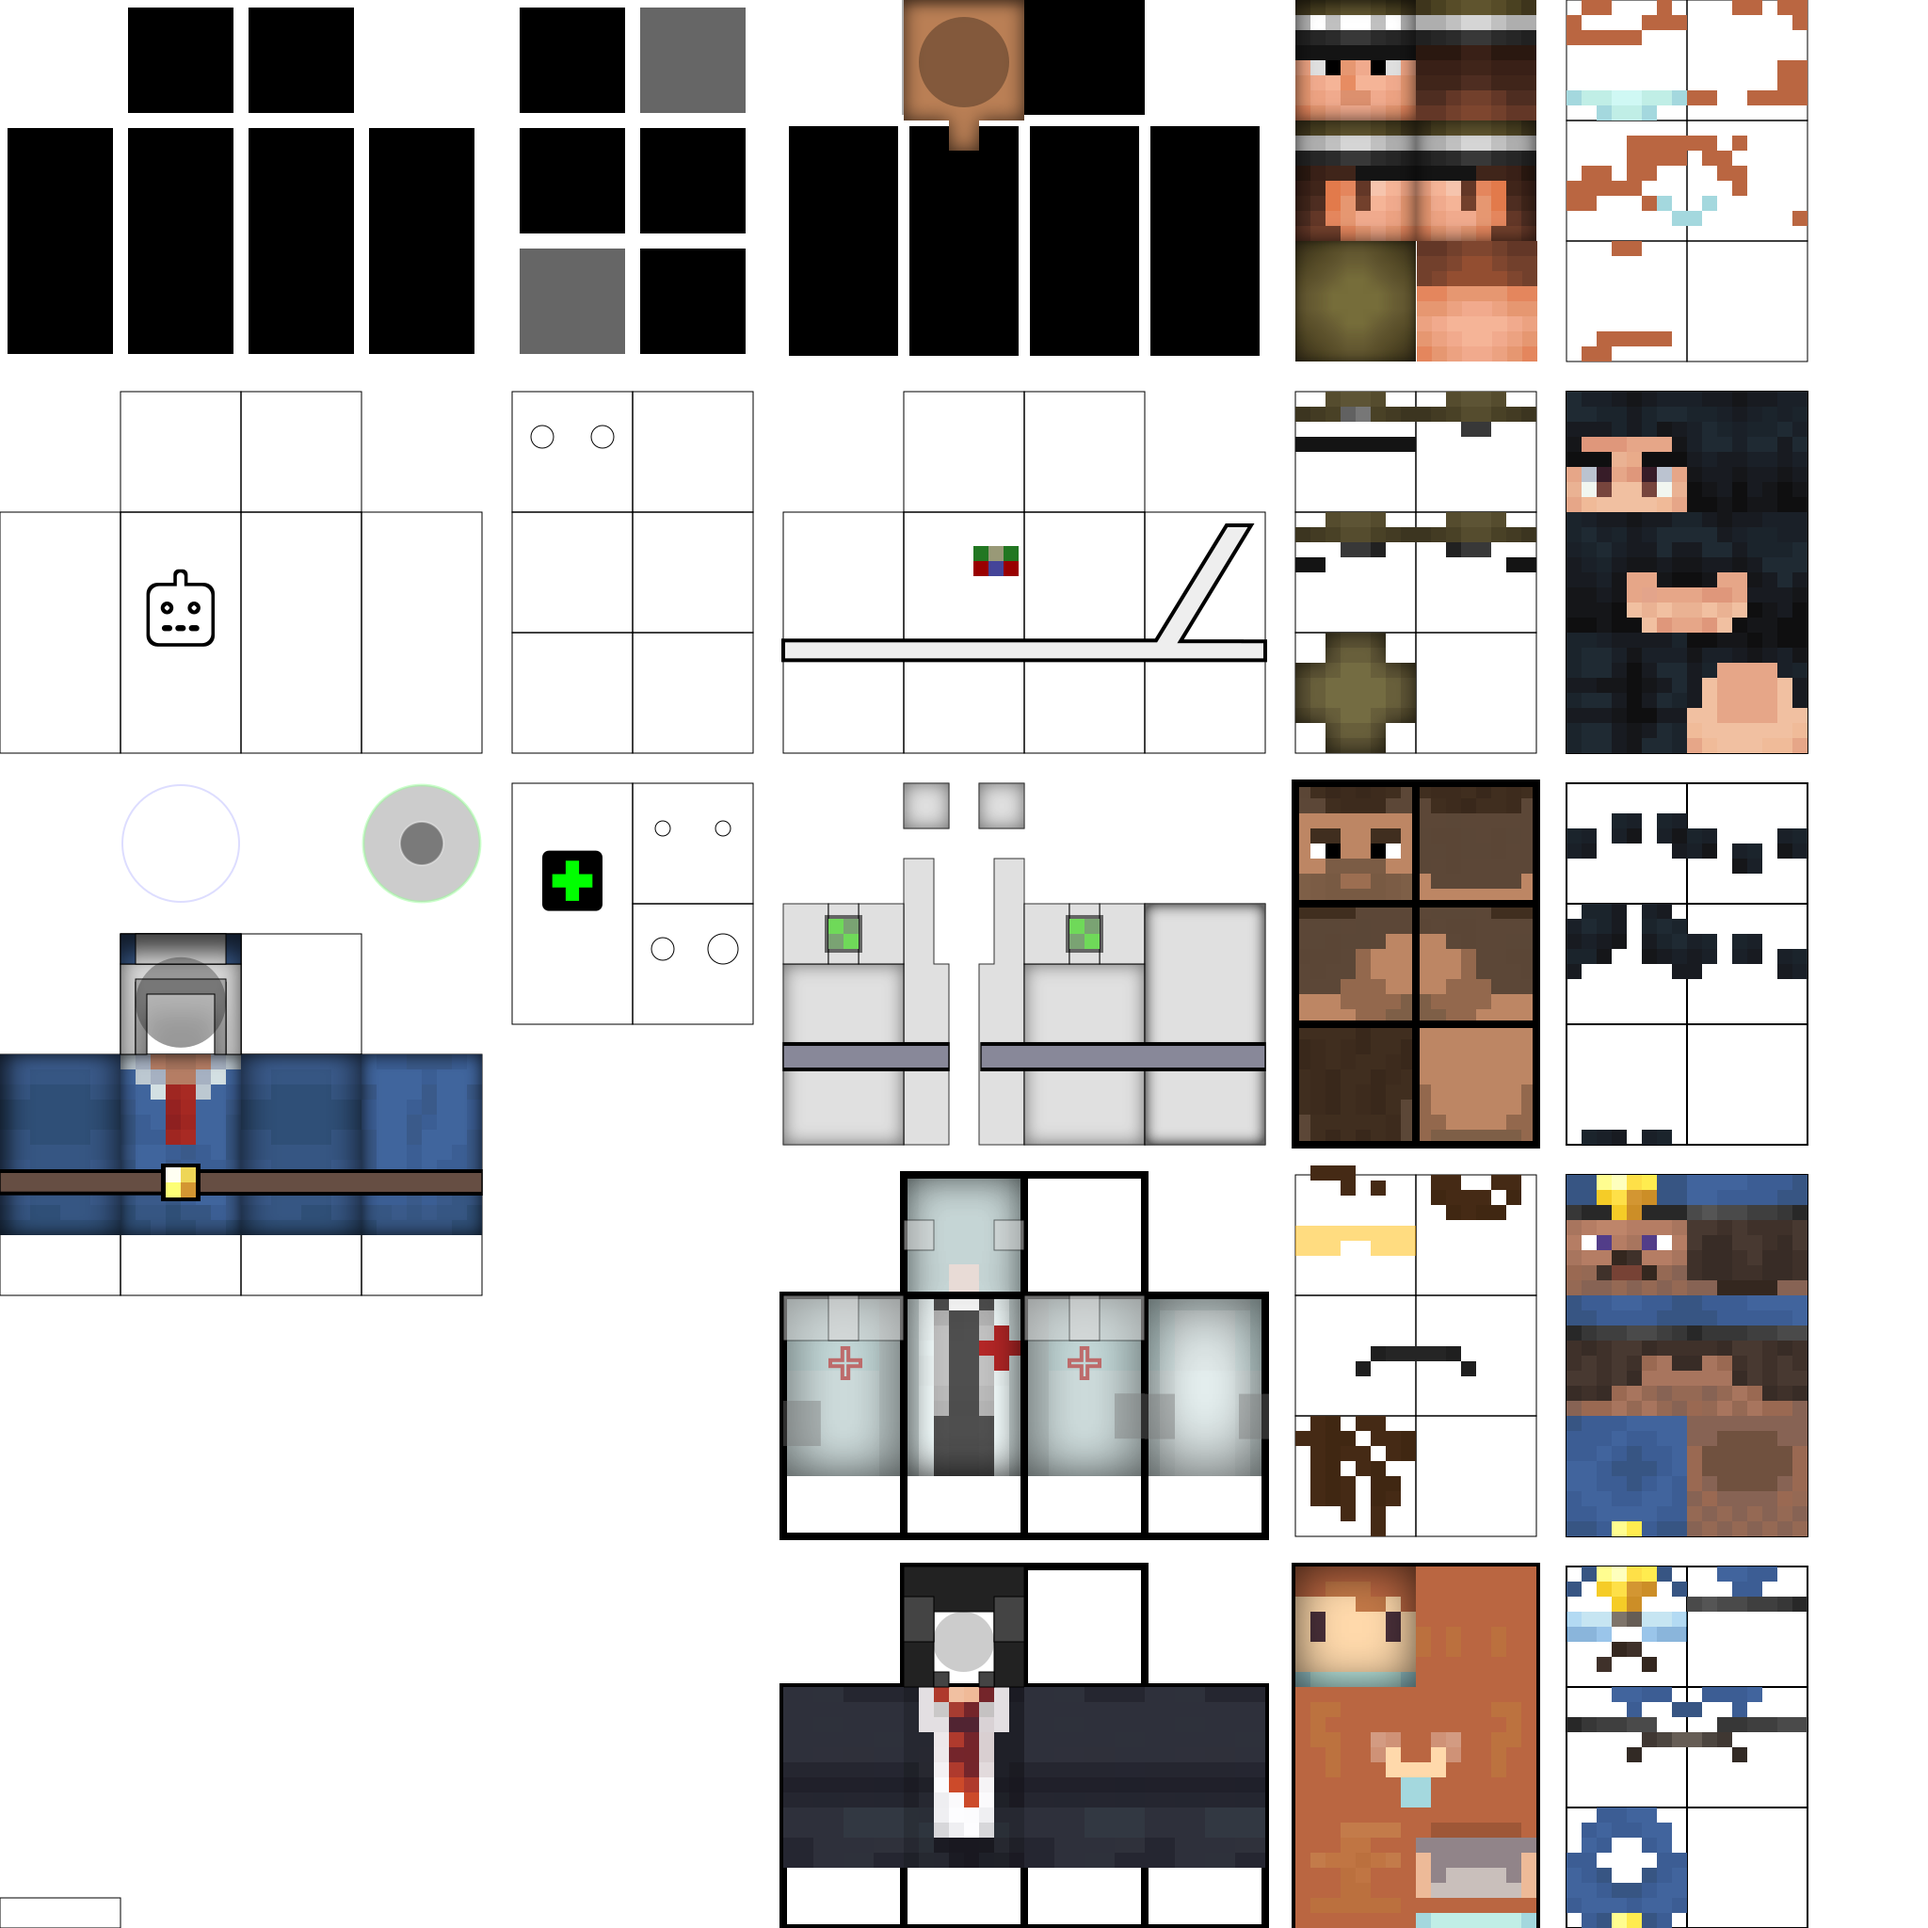
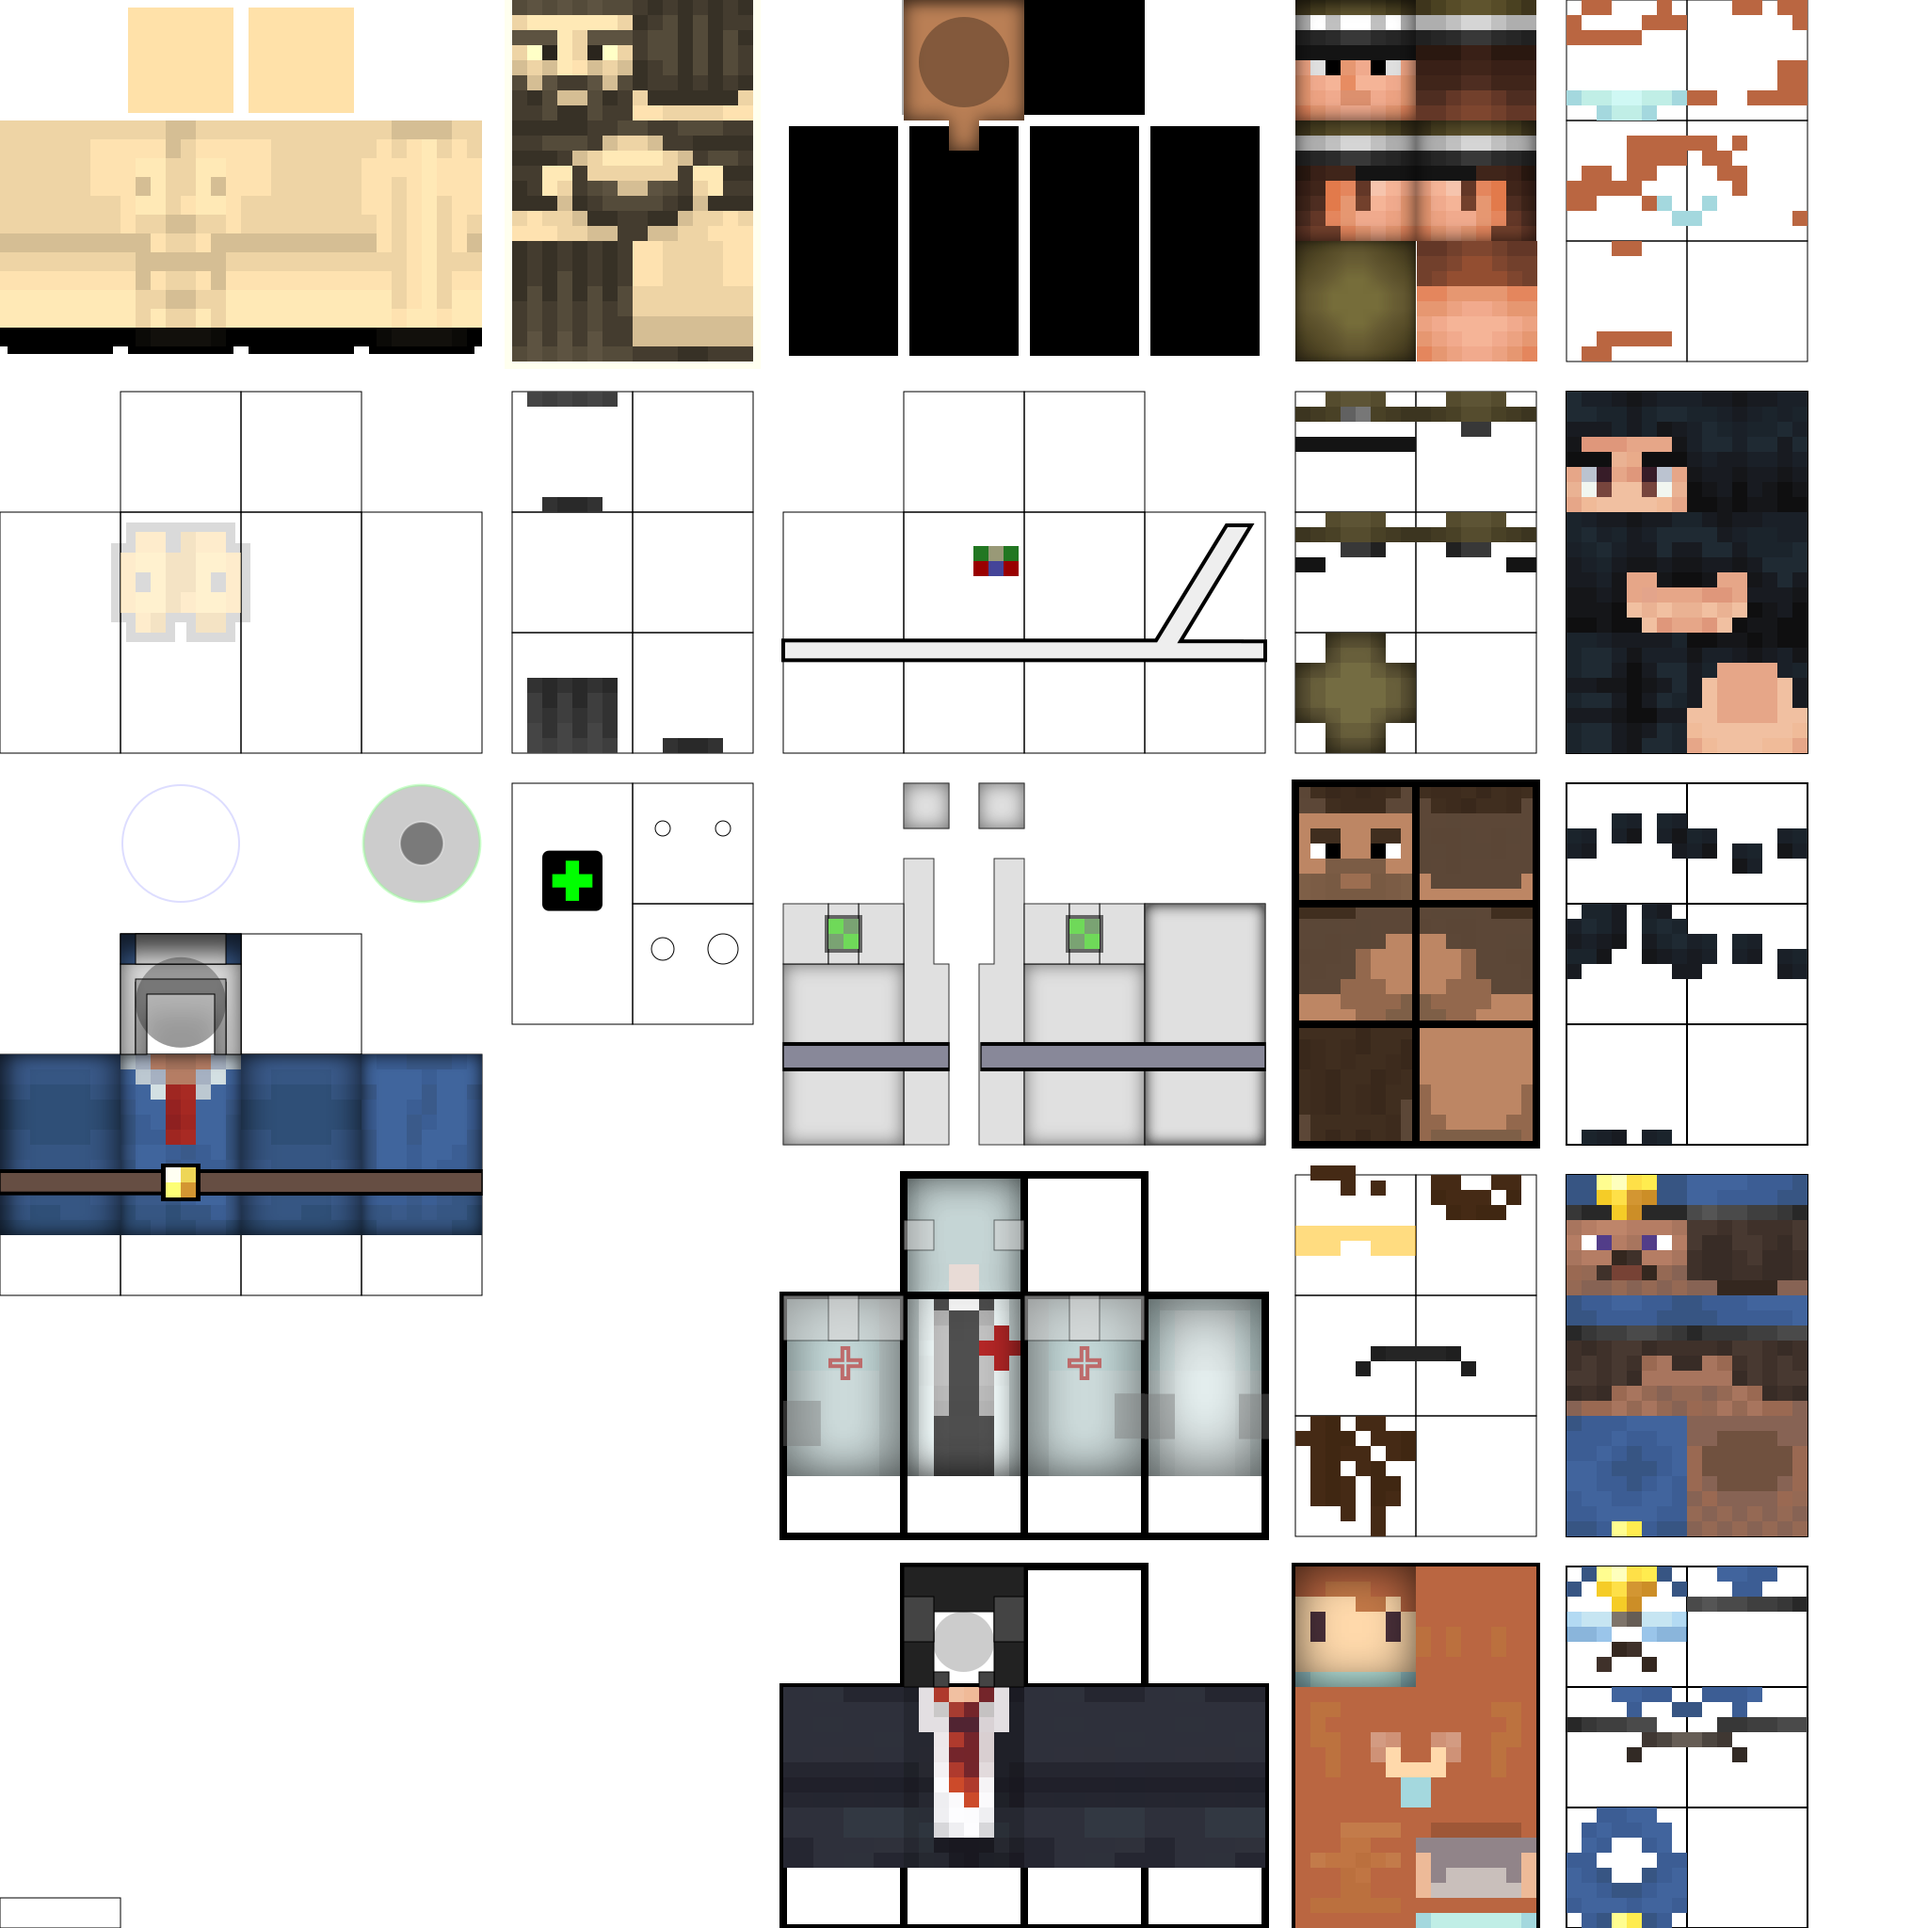
feat: try beard for default human-0 skin

diff --git a/README.md b/README.md
@@ -272,6 +272,8 @@ We'll try to re-map publicly available Minecraft Skins.
   - 🚧 https://namemc.com/skin/c06caf409cd8427e
 - https://namemc.com/minecraft-skins/tag/astronaut
   - 🚧 https://namemc.com/skin/0668665d67015d4c
+- https://namemc.com/minecraft-skins/tag/beard
+  - 🚧 https://namemc.com/skin/12708b02a8e4cc10
 
 - https://namemc.com/minecraft-skins/tag/general
 - https://namemc.com/minecraft-skins/tag/business
